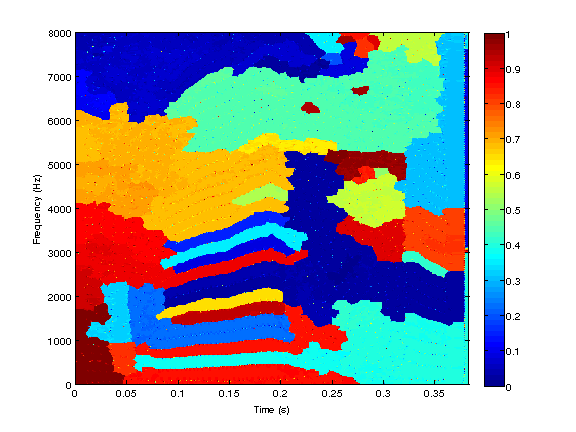
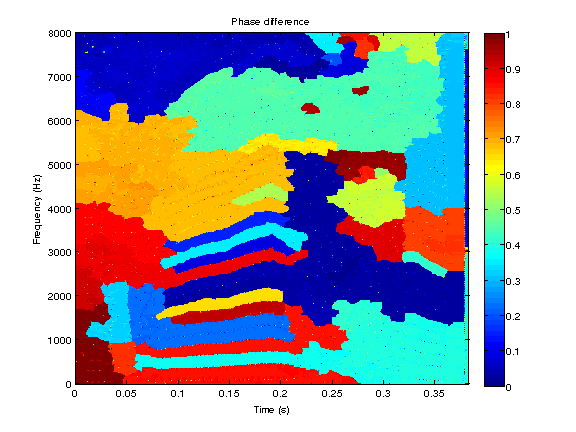
Updated title images again

diff --git a/mat2doc/generatetitle.m b/mat2doc/generatetitle.m
@@ -23,6 +23,7 @@ HEAPINTtime = toc;
 
 figure(1);
 plotdgtreal(s,a,M,'fs',fs,'dynrange',80);
+title('Spectrogram');
 print(gcf,'images/title_greasy.png','-r72','-dpng');
 
 fhatHeapint = idgtreal(chat,{'dual',g},a,M,numel(f),'timeinv');
@@ -31,8 +32,7 @@ EheapintF = magnitudeerrdb(s,nextprojc)
 
 figure(2);
 plotdgtrealphasediff(angle(c),angle(chat),s,thr2,a,M,'fs',fs);
-%colormap(graycm);
-ylim([0,8e3]);
+title('Phase difference');
 shg
 
 print(gcf,'images/title_greasy_diff.png','-r72','-dpng');
